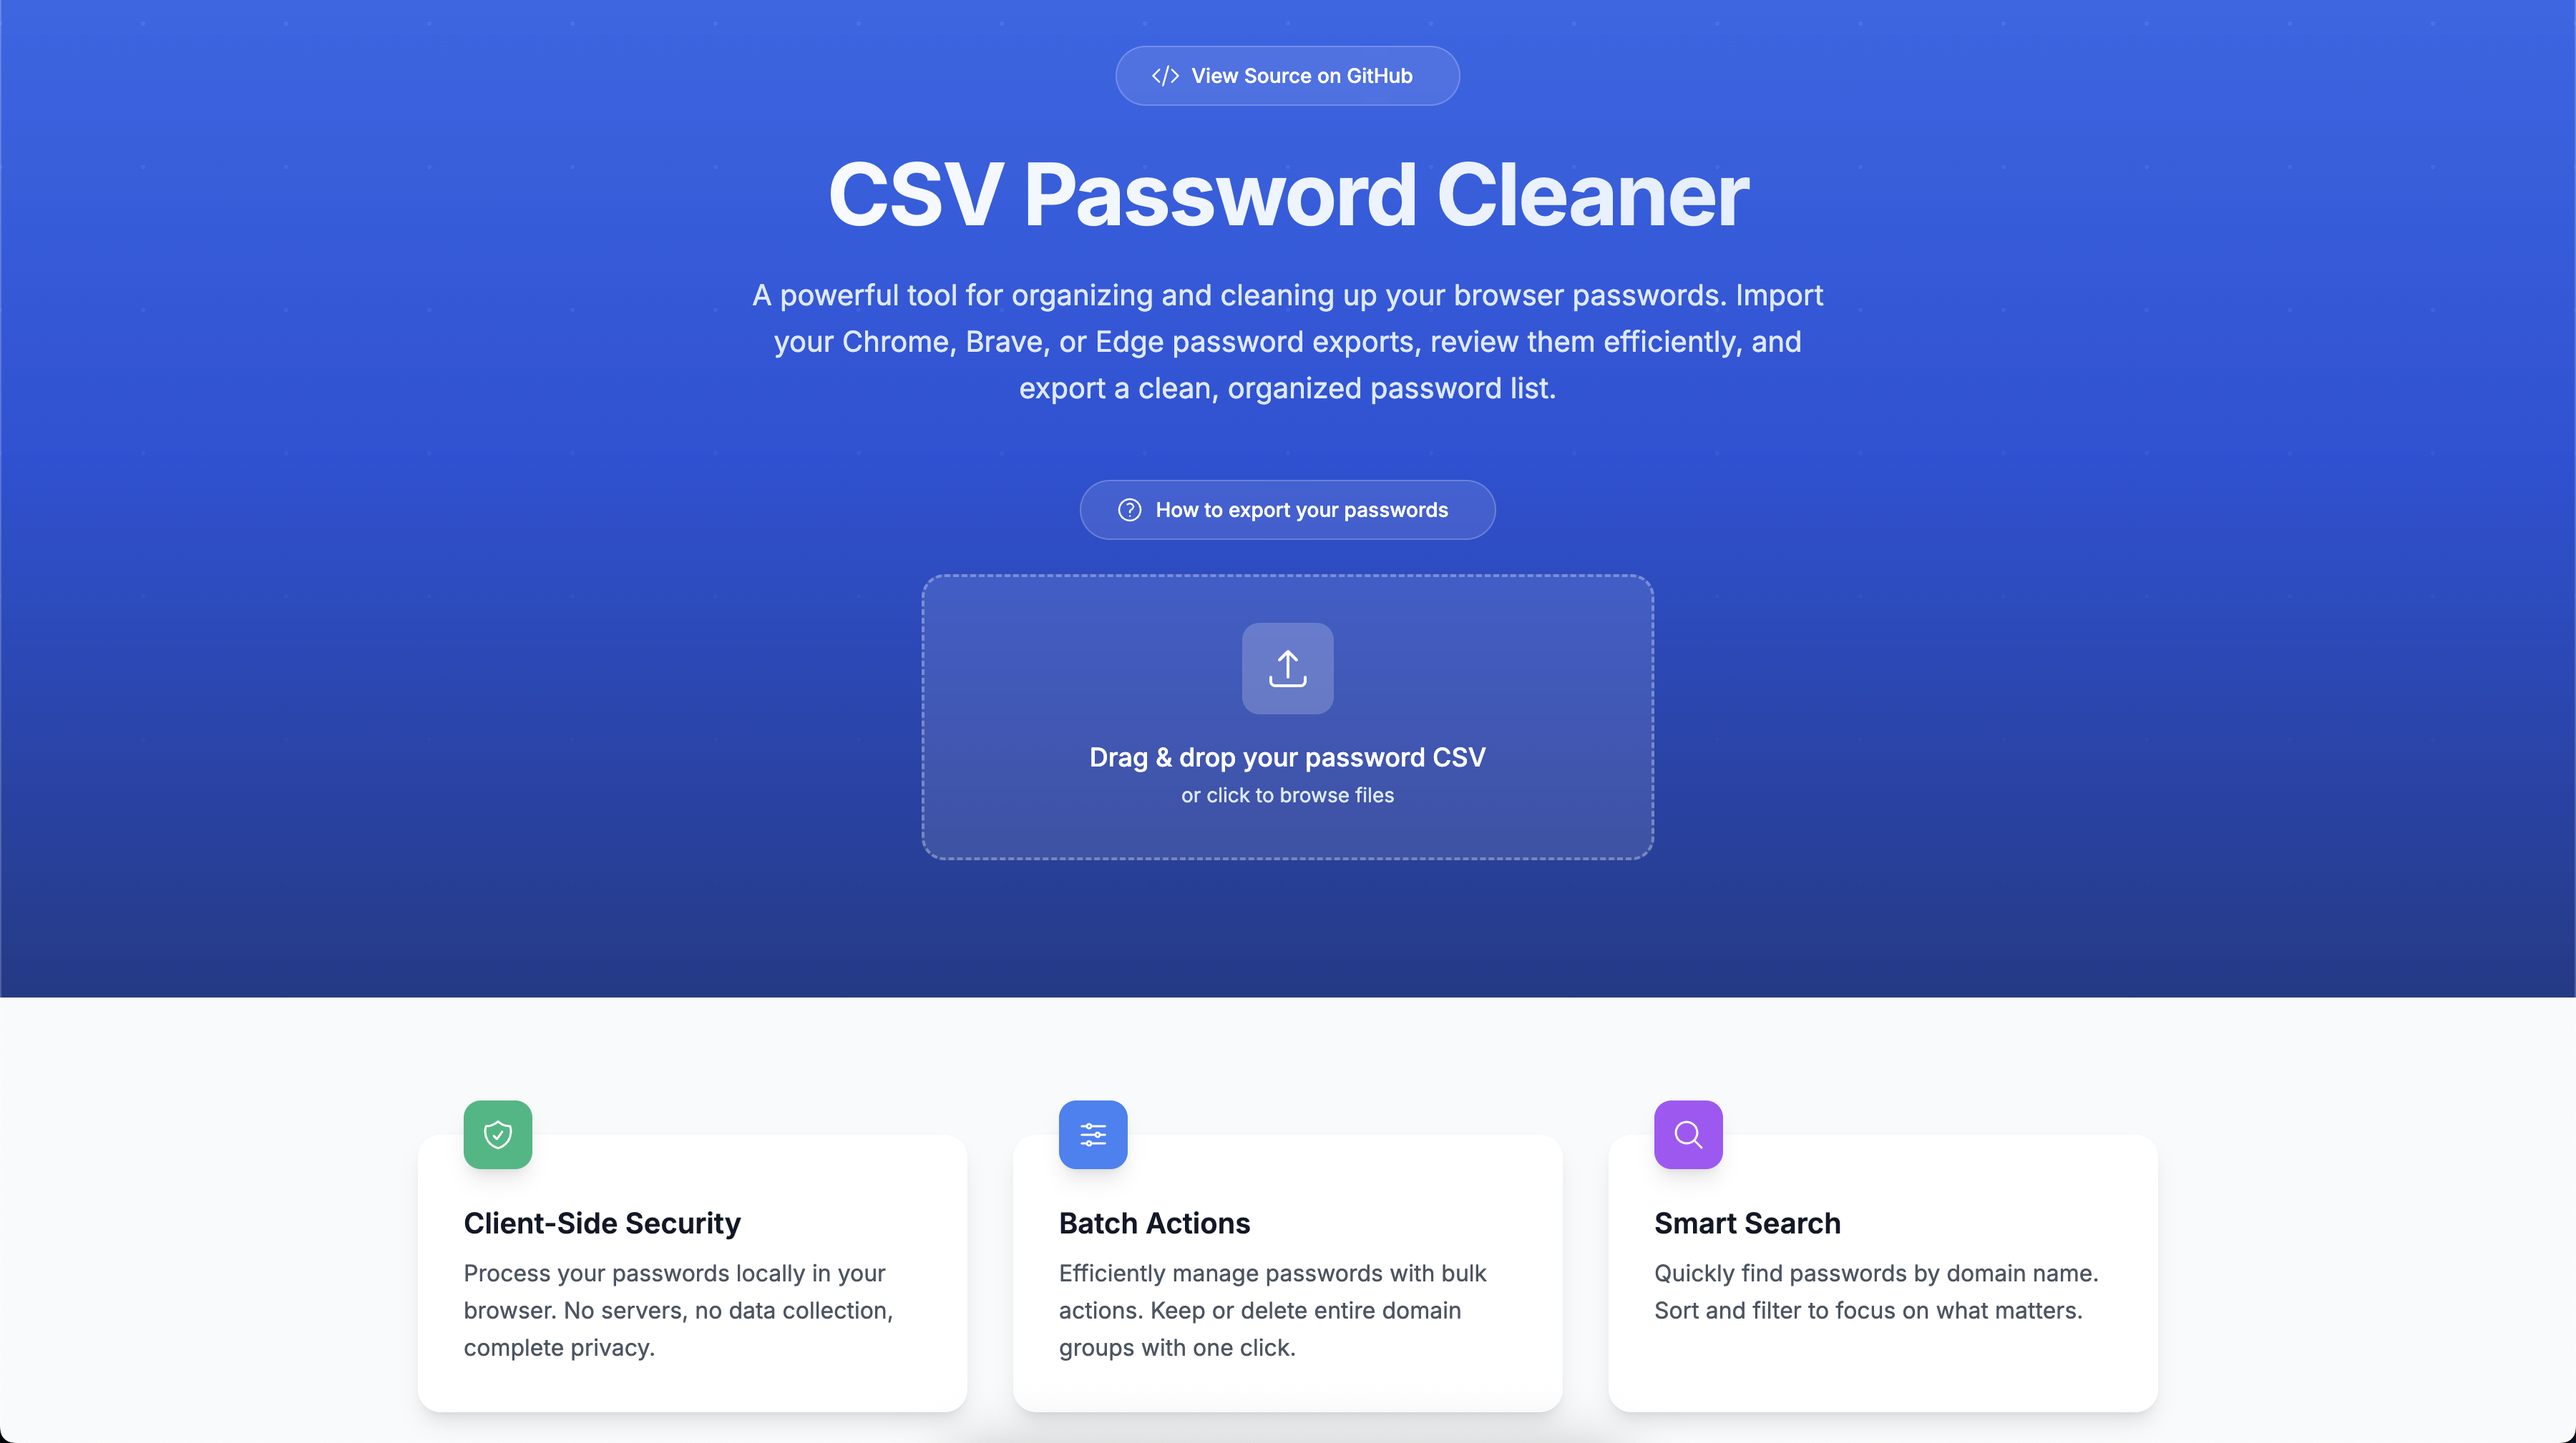
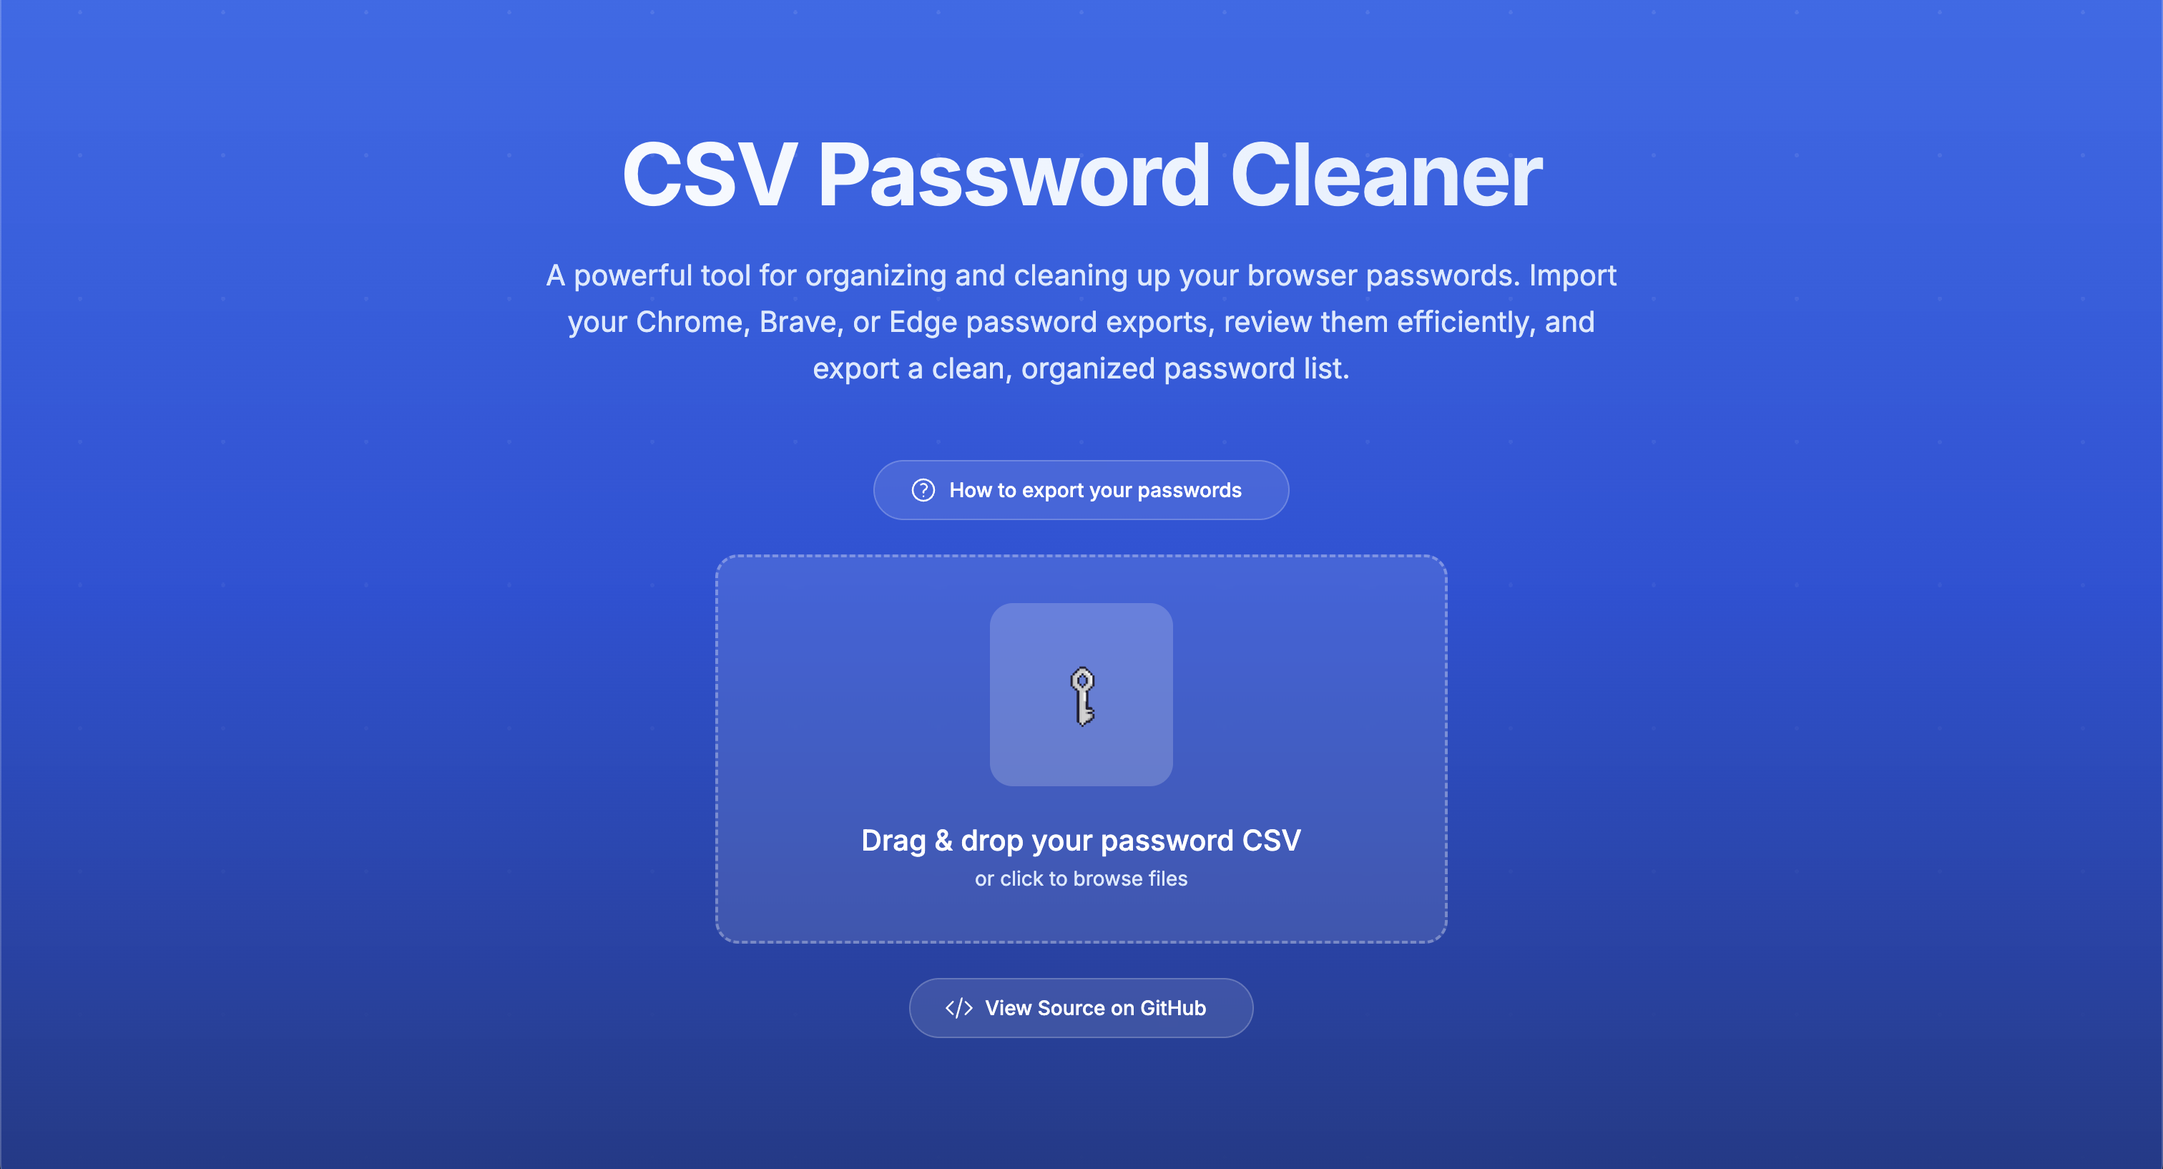
refactor(UI): Optimize homepage layout and key animation placement
- Reposition key turning animation within file upload section
- Adjust vertical padding and spacing
- Enhance visual hierarchy and user focus
- Update screenshot to reflect new design

diff --git a/src/app/page.tsx b/src/app/page.tsx
@@ -136,18 +136,9 @@ export default function Home() {
         
         {/* Hero content */}
         <div className="relative">
-          <div className="max-w-7xl mx-auto px-4 sm:px-6 lg:px-8 pt-8 pb-24">
+          <div className="max-w-7xl mx-auto px-4 sm:px-6 lg:px-8 py-24">
             <div className="text-center">
               <div className="text-center">
-                {/* Key turning animation */}
-                <div className="flex justify-center mb-4">
-                  <img 
-                    src="/key-turning.gif" 
-                    alt="Key turning animation" 
-                    className="w-64 h-64"
-                  />
-                </div>
-                
                 <h1 className="text-4xl font-bold tracking-tight sm:text-5xl lg:text-6xl bg-clip-text text-transparent bg-gradient-to-r from-white to-blue-100">
                   CSV Password Cleaner
                 </h1>
@@ -176,12 +167,17 @@ export default function Home() {
                     onDragLeave={() => setDragActive(false)}
                     onDrop={handleDrop}
                   >
-                    <label className="flex flex-col items-center justify-center cursor-pointer gap-4">
-                      <div className="p-4 bg-white/20 rounded-xl">
-                        <ArrowUpTrayIcon className="w-8 h-8" />
+                    <label className="flex flex-col items-center justify-center cursor-pointer gap-6">
+                      {/* Key turning animation */}
+                      <div className="w-32 h-32 p-4 bg-white/10 rounded-2xl backdrop-blur-sm">
+                        <img 
+                          src="/key-turning.gif" 
+                          alt="Key turning animation" 
+                          className="w-full h-full"
+                        />
                       </div>
-                      <div className="text-center">
-                        <span className="text-lg font-medium block">
+                      <div className="text-center space-y-2">
+                        <span className="text-xl font-medium block">
                           {dragActive ? 'Drop your CSV file here' : 'Drag & drop your password CSV'}
                         </span>
                         <span className="text-sm text-blue-100">or click to browse files</span>
